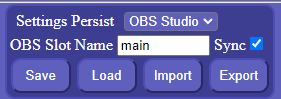
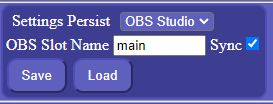
Documentation / minor tweaks

diff --git a/src/lib/help.js b/src/lib/help.js
@@ -6,25 +6,20 @@ export const help_data = [
 <li>Saves connection configuration (IP:Port, password) in browser local data</li>
 <li>Saves settings in browser local data and optionally persists settings in OBS Studio persistent data slot</li>
 <li>Saves OBS Studio persistent data slot name and sync configuration in browser local data</li>
+<li>No installation or extra software is needed, works in any modern browser (desktop or mobile)</li>
 </ul>
 <h3>OBS Studio</h3>
 <ul>
-<li>No installation or extra software is needed, works in any modern browser (desktop or mobile)</li>
 <li>Control Preview (Projector) and Program scenes independently</li>
 <li>Change source settings for currently displayed Preview and Program views</li>
-<li>
-<p>Support for Studio Mode (preview and program scenes)</p>
-</li>
-<li>
-<p>Live view of preview &amp; output, updating 1 fps</p>
-</li>
-<li>
-<p>User defined hotkey configuration (both "named" and "keybord")</p>
-</li>
+<li>Support for Studio Mode (preview and program scenes)</li>
+<li>Live view of preview &amp; program, updating 1 fps</li>
+<li>User defined hotkey configuration (both "named" and "keybord")</li>
 </ul>
 <h3>A/V Devices</h3>
 <ul>
 <li>Pan, Tilt, and Zoom support for VISCA cameras</li>
+<li>View of 'same name' OBS Studio camera source behind translucent Pan / Tilt / Zoom buttons</li>
 <li>MIDI Audio Mixer Support</li>
 </ul>
 <hr />`},
@@ -37,10 +32,45 @@ export const help_data = [
 <li>Enabling the OBS-websocket server in OBS under <code>Tools -&gt; obs-websocket Settings -&gt; Enable WebSocket Server</code></li>
 </ul>
 <hr />`},
-{ topic: `Settings`,
- text: `<h2>Settings</h2>
+{ topic: `Connecting`,
+ text: `<h2>Connecting</h2>
+<p>Upon launch, IF there was a previous websocket connection, an automatic connect attempt is performed using the connection configuration (IP:Port, password) stored in browser local data.</p>
+<p>If there was not a previous connection, or the connection attemp fails, the manual connect panel will be displayed. Connect by pressing the "Connect" button</p>
+<p><img src="connect.jpg" ></p>
+<p>The actual operation specifics can be configured as specified in "Configuration and Settings".</p>`},
+{ topic: `Configuration and Settings`,
+ text: `<h2>Configuration and Settings</h2>
+<p>Expand the settings panel by pressing the '+' button at the right edge of the page heading.</p>
+<p>The Settings section of the panel contains:</p>
 <p><img src="config.jpg" ></p>
-<p><img src="savesettings.jpg" ></p>`},
+<ul>
+<li>Show Sources Configuration: Display the OBS Studio source buttons for the 
+displayed scene(s) and allow changing which source are active fr each scene.</li>
+<li>Use A/V Configuration: Activate connection to and control of
+<a href="https://github.com/jacobvc/AvDeviceControl">AvDeviceControl</a> application.</li>
+<li>Edit Hotkeys Control: Change hotkeys operation from Operation mode to Edit mode (See Hotkeys section)</li>
+<li>Show Help: Select and display available help topics</li>
+</ul>
+<p>The Persist Settings section of the panel controls how and where settings are persisted.</p>
+<p><img src="savesettings.jpg" ></p>
+<p>All configuration and settings are stored in the browser local data. The two categories of configuration and setting are:
+- Local Data:
+  - OBS Studio IP:Port and password
+  - AvDeviceControl IP:Port and password
+  - Settngs Persist mode
+  - OBS Studio slot name 
+  - Synchronization enable
+- Persisted Data:
+  - Show Sources
+  - Use A/V
+  - Hotkey Configuration (JSON object)</p>
+<p>The user interface allows choosing whether to persist settings in OBS Studio or the browser local data. </p>
+<p>When configured to persist settings in OBS Studio, a OBS Studio persisted data slot name must be provided, and synchronization may optionally be enabled.</p>
+<ul>
+<li>Persisted data is saved to OBS Studio, but local data is not.</li>
+<li>Persisted data is retrieved from the slot at OBS Studio connect time</li>
+<li>Persisted data may be saved or loaded manually, but changes are not persisted unless Sync is enabled.</li>
+</ul>`},
 { topic: `Hotkeys`,
  text: `<h2>Hotkeys</h2>
 <p><img src="hotkeys.jpg" ></p>

diff --git a/src/lib/Preferences.js b/src/lib/Preferences.js
@@ -3,8 +3,11 @@ import { writable, get } from 'svelte/store'
 
 let settings;
 
-if (localStorage.settings) {
-  settings = JSON.parse(localStorage.settings);
+let fileHandle
+
+
+if (localStorage.stringifiedSettings) {
+  settings = JSON.parse(localStorage.stringifiedSettings);
 }
 else {
   settings = {};
@@ -46,14 +49,8 @@ export let obsPrefsSync = writable(localStorage.obsPrefsSync === 'true' || false
 obsPrefsSync.subscribe((value) => { localStorage.obsPrefsSync = value; });
 
 // 
-// Persistent preferences - OBS Studio Persistent Data
+// Persistent preferences - Persisted externally
 //
-function persistSettings() {
-  localStorage.settings = JSON.stringify(settings);
-  if (get(obsDataSlot) && get(obsPrefsSync) && get(obsConnected)) {
-    saveSettingsToObs();
-  }
-}
 
 // Configure whether to show OBS scene sources
 export let showSources = writable(settings.showSources === 'true' || false)
@@ -80,12 +77,23 @@ editHotkeys.subscribe((value) => {
   }
 });
 
+
+// 
+// Persistent support functions
+//
+
+function persistSettings() {
+  localStorage.stringifiedSettings = JSON.stringify(settings);
+  if (get(obsDataSlot) && get(obsPrefsSync) && get(obsConnected)) {
+    saveSettingsToObs();
+  }
+}
 export async function saveSettingsToObs() {
   if (get(obsDataSlot)) {
     obsSendCommand("SetPersistentData", {
       realm: "OBS_WEBSOCKET_DATA_REALM_GLOBAL",
       slotName: get(obsDataSlot).toLowerCase(),
-      slotValue: localStorage.settings
+      slotValue: localStorage.stringifiedSettings
     })
   }
   else {
@@ -100,7 +108,7 @@ export async function loadSettingsFromObs(quiet) {
       slotName: get(obsDataSlot).toLowerCase(),
     });
     if (tmp.slotValue) {
-      localStorage.settings = tmp.slotValue;
+      localStorage.stringifiedSettings = tmp.slotValue;
       return true;
     }
     else if (!quiet) {
@@ -113,17 +121,39 @@ export async function loadSettingsFromObs(quiet) {
   return false;
 }
 
+/* showSaveFilePicker doesn't seem to work very well
+ * Hide import / export buttons in App.svelte, and 
+ * comment out these functions for now
+ */ 
+/*
 export async function exportSettings() {
-  runtimeError.set('Not implemented');
+  [fileHandle] = await window.showSaveFilePicker();
+   const writable = await fileHandle.createWritable();
+  await writable.write(JSON.stringify(localStorage));
+  await writable.close();
 }
 
 export async function importSettings() {
-  runtimeError.set('Not implemented');
+  [fileHandle] = await window.showOpenFilePicker();
+  // get file contents
+  const fileData = await fileHandle.getFile();
+  let contents = await fileData.text();
+  if (contents) {
+    let obj = JSON.parse(contents);
+    if (obj) {
+      localStorage = obj;
+      location.reload();
+      return true;
+    }
+  }
+  return false;
 }
+*/
 
 //
 // OBS Studio interface / connection
 //
+
 export const obs = new OBSWebSocket()
 
 export async function obsSendCommand(command, params) {
@@ -147,7 +177,7 @@ obs.on('ConnectionError', err => {
 //
 // A/V devices interface / connection
 //
-// @ts-ignore
+
 export const avDevices = new OBSWebSocket();
 
 export async function avdSendCommand(command, params) {

diff --git a/src/App.svelte b/src/App.svelte
@@ -33,8 +33,8 @@
     obsPrefsSync,
     saveSettingsToObs,
     loadSettingsFromObs,
-    exportSettings,
-    importSettings,
+    // exportSettings,
+    // importSettings,
   } from './lib/Preferences.js';
   import { writable } from 'svelte/store';
   import { bind, loop_guard, subscribe, toggle_class } from 'svelte/internal';
@@ -326,17 +326,20 @@
                 class="btn-default"
                 on:click="{() => {
                   if (loadSettingsFromObs(false)) location.reload();
-                }}"
-                >Load
+                }}">
+                Load
               </button>
             {/if}
           {/if}
-          <button class="btn-default" on:click="{() => importSettings()}">
+          <!--
+          <button class="btn-default" on:click="{() => {
+            if (importSettings()) location.reload(); }}">
             Import
           </button>
           <button class="btn-default" on:click="{() => exportSettings()}">
             Export
           </button>
+          -->
         </div>
       </div>
       <div class="container">
@@ -369,12 +372,12 @@
           {#if $useAv}
             AND A/V Devices -
           {/if}
-          Remote Connect
+          Connect
         </center>
       </h3>
 
       {#if document.location.protocol === 'https:'}
-        <div class="notification is-danger">
+        <div class="instructions">
           You are checking this page on a secure HTTPS connection. That's great,
           but it means you can
           <strong>only</strong>

diff --git a/src/lib/Hotkey.svelte b/src/lib/Hotkey.svelte
@@ -33,7 +33,8 @@
         let group = { label: 'New Group', buttons: [] };
         $hotkeys.groups.push(group);
         thisGroup = group;
-        thisButton = null;
+        newButton(group);
+        //thisButton = null;
         hotkeys.set($hotkeys);
     }
     function newButton(group) {

diff --git a/src/style.scss b/src/style.scss
@@ -63,7 +63,6 @@ body {
 
 html,
 body,
-p,
 dl,
 dt,
 dd,

diff --git a/README.md b/README.md
@@ -1,6 +1,6 @@
 # OBS Studio Remote
 
-#### Control [OBS Studio](https://obsproject.com/), [serial VISCA cameras, and MIDI mixers](https://github.com/jacobvc/AvDeviceControl) remotely
+#### Control [OBS Studio](https://obsproject.com/), serial [VISCA cameras, and MIDI mixers](https://github.com/jacobvc/AvDeviceControl) remotely
 
 ### Live URL: [http://obs.spiritofpeacecommunity.org/](http://obs.spiritofpeacecommunity.org/)
 
@@ -14,19 +14,18 @@
 - Saves connection configuration (IP:Port, password) in browser local data
 - Saves settings in browser local data and optionally persists settings in OBS Studio persistent data slot
 - Saves OBS Studio persistent data slot name and sync configuration in browser local data
+- No installation or extra software is needed, works in any modern browser (desktop or mobile)
 
 ### OBS Studio
-- No installation or extra software is needed, works in any modern browser (desktop or mobile)
 - Control Preview (Projector) and Program scenes independently
 - Change source settings for currently displayed Preview and Program views
 - Support for Studio Mode (preview and program scenes)
-
-- Live view of preview & output, updating 1 fps
-
+- Live view of preview & program, updating 1 fps
 - User defined hotkey configuration (both "named" and "keybord")
 
 ### A/V Devices
 - Pan, Tilt, and Zoom support for VISCA cameras
+- View of 'same name' OBS Studio camera source behind translucent Pan / Tilt / Zoom buttons
 - MIDI Audio Mixer Support
 
 ---
@@ -41,16 +40,91 @@ This project requires OBS websocket v5. This is OBS Studio version dependent, me
 ---
 
 # Operation
- 
-## Settings
+
+## Connecting
+Upon launch, IF there was a previous websocket connection, an automatic connect attempt is performed using the connection configuration (IP:Port, password) stored in browser local data.
+
+If there was not a previous connection, or the connection attemp fails, the manual connect panel will be displayed. Connect by pressing the "Connect" button
+
+<img src="public/connect.jpg" >
+
+The actual operation specifics can be configured as specified in "Configuration and Settings".
+
+## Configuration and Settings
+Expand the settings panel by pressing the '+' button at the right edge of the page heading.
+
+The Settings section of the panel contains:
+
 <img src="public/config.jpg" >
+ 
+- Show Sources Configuration: Display the OBS Studio source buttons for the 
+displayed scene(s) and allow changing which source are active fr each scene.
+- Use A/V Configuration: Activate connection to and control of
+[AvDeviceControl](https://github.com/jacobvc/AvDeviceControl) application.
+- Edit Hotkeys Control: Change hotkeys operation from Operation mode to Edit mode (See Hotkeys section)
+- Show Help: Select and display available help topics
+
+The Persist Settings section of the panel controls how and where settings are persisted.
 
 <img src="public/savesettings.jpg" >
 
+All configuration and settings are stored in the browser local data. The two categories of configuration and setting are:
+- Local Data:
+  - OBS Studio IP:Port and password
+  - AvDeviceControl IP:Port and password
+  - Settngs Persist mode
+  - OBS Studio slot name 
+  - Synchronization enable
+- Persisted Data:
+  - Show Sources
+  - Use A/V
+  - Hotkey Configuration (JSON object)
+
+The user interface allows choosing whether to persist settings in OBS Studio or the browser local data. 
+
+When configured to persist settings in OBS Studio, a OBS Studio persisted data slot name must be provided, and synchronization may optionally be enabled.
+
+- Persisted data is saved to OBS Studio, but local data is not.
+- Persisted data is retrieved from the slot at OBS Studio connect time
+- Persisted data may be saved or loaded manually, but changes are not automatically persisted unless Sync is enabled.
+
+
 ## Hotkeys
+Hotkeys are presented as a horizontally aligned set of Hotkey group panels. 
+
+A hotkey panel is a bordered panel containing a group of one or more buttons 
+below a label. A button press results in firing the associated hotkey.
+
+The default configuration includes an example "Change Slide" group with a '<'
+button connected to the SlideShow.PreviousSlide named hotkey and a '>' button
+connected to the SlideSHow.NextSlide named hotkey.
+
 <img src="public/hotkeys.jpg" >
 
+When the Edit Hotkeys switch is turned on, the hotkey display changes to edit
+mode. 
+
 <img src="public/edithotkeys.jpg" >
+
+Edit mode supports selecting whether the hotkeys appear above or below the
+(preview and program) scene displays, adding, removing, and ordering hotkey 
+panels, editing button and panel labels, and defining hotkey binding.
+
+In this example, the 'Change Slide' panel and '<' button are in scope. Any of 
+the labels may be changed by selecting the test an typing. Either the '<' button
+or the entire hotkey panel can be removed by pressing a 'Remove' button, and
+the hotkey connection can be configured. In the case of a named hotkey, a
+dropdown list of all available named hotkeys is provided. Pressing the '+' 
+button will add another button.
+
+Pressing the '+' button in the heading adds a 'New Group' containing one 
+'New Key'. 
+
+<img src="public/hotkeysnew.jpg" >
+
+This example has configured a key sequence (NOT Named Hotkey) as Control-A.
+
+[Look here for available hotkey key sequence values.](https://github.com/obsproject/obs-studio/blob/master/libobs/obs-hotkeys.h)
 
 ## OBS Studio Operation
 
